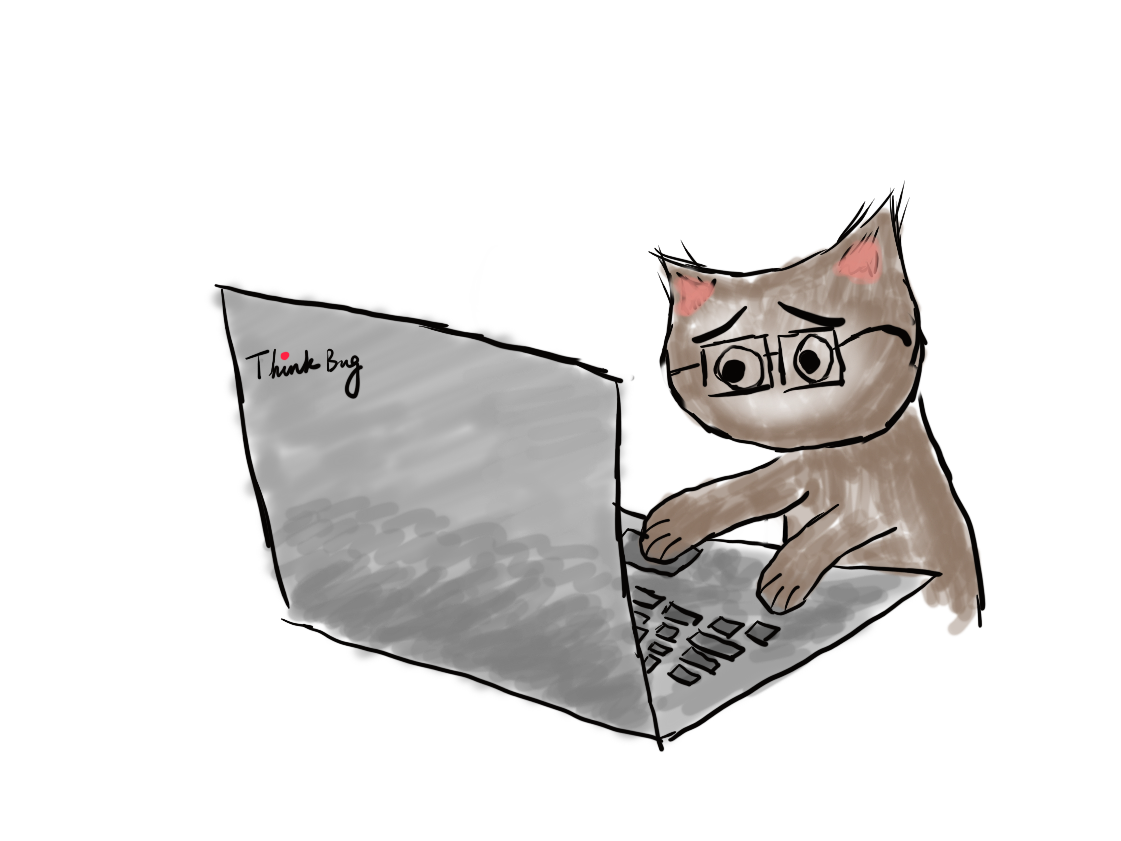
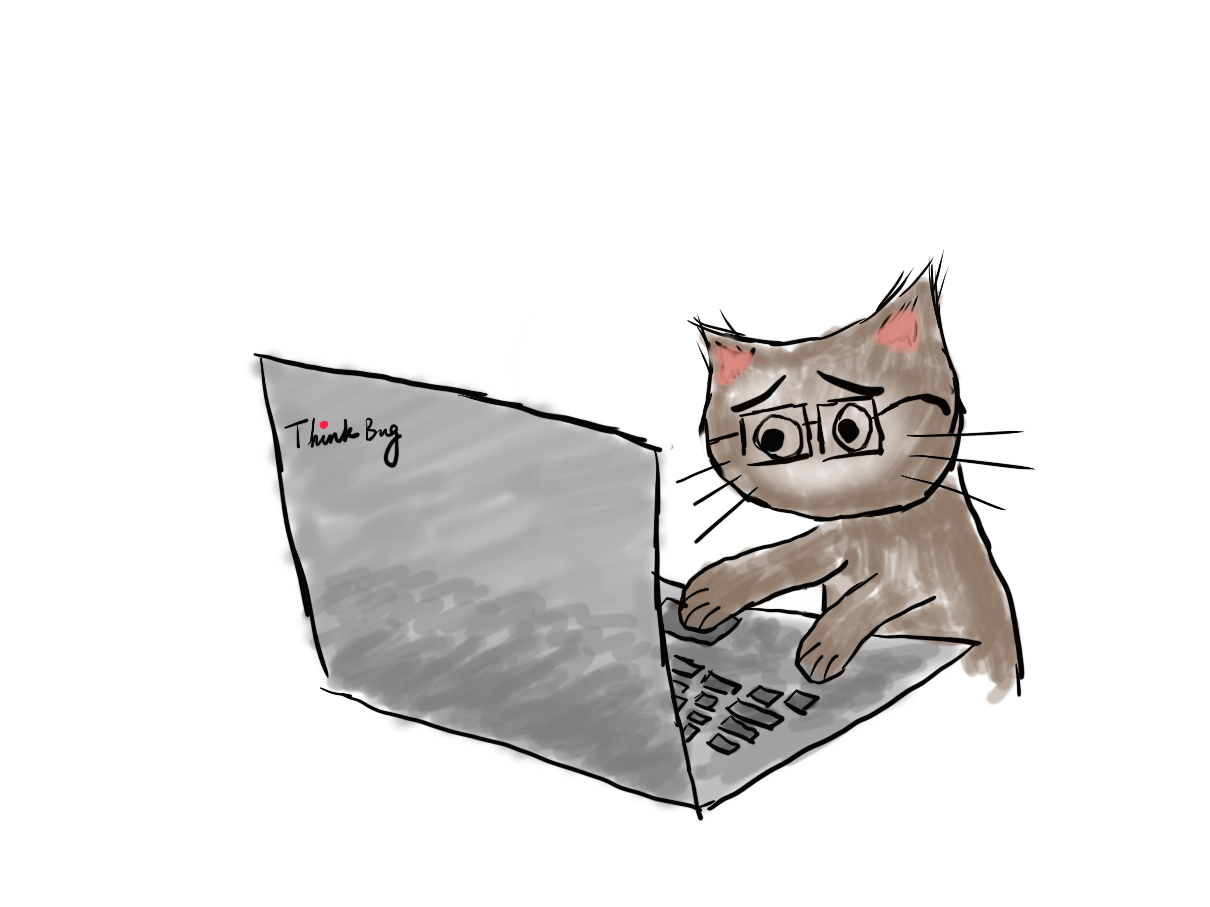
forgot to add whiskers

diff --git a/README.md b/README.md
@@ -1,6 +1,6 @@
 <img src="coding_cat_cropped.png" alt="debugging_can_be_painful_sometimes" 
 class = "center"
-width="500px"/>
+width="600px"/>
 
 <!--
 **Isobutylcyclopentane/Isobutylcyclopentane** is a ✨ _special_ ✨ repository because its `README.md` (this file) appears on your GitHub profile.
